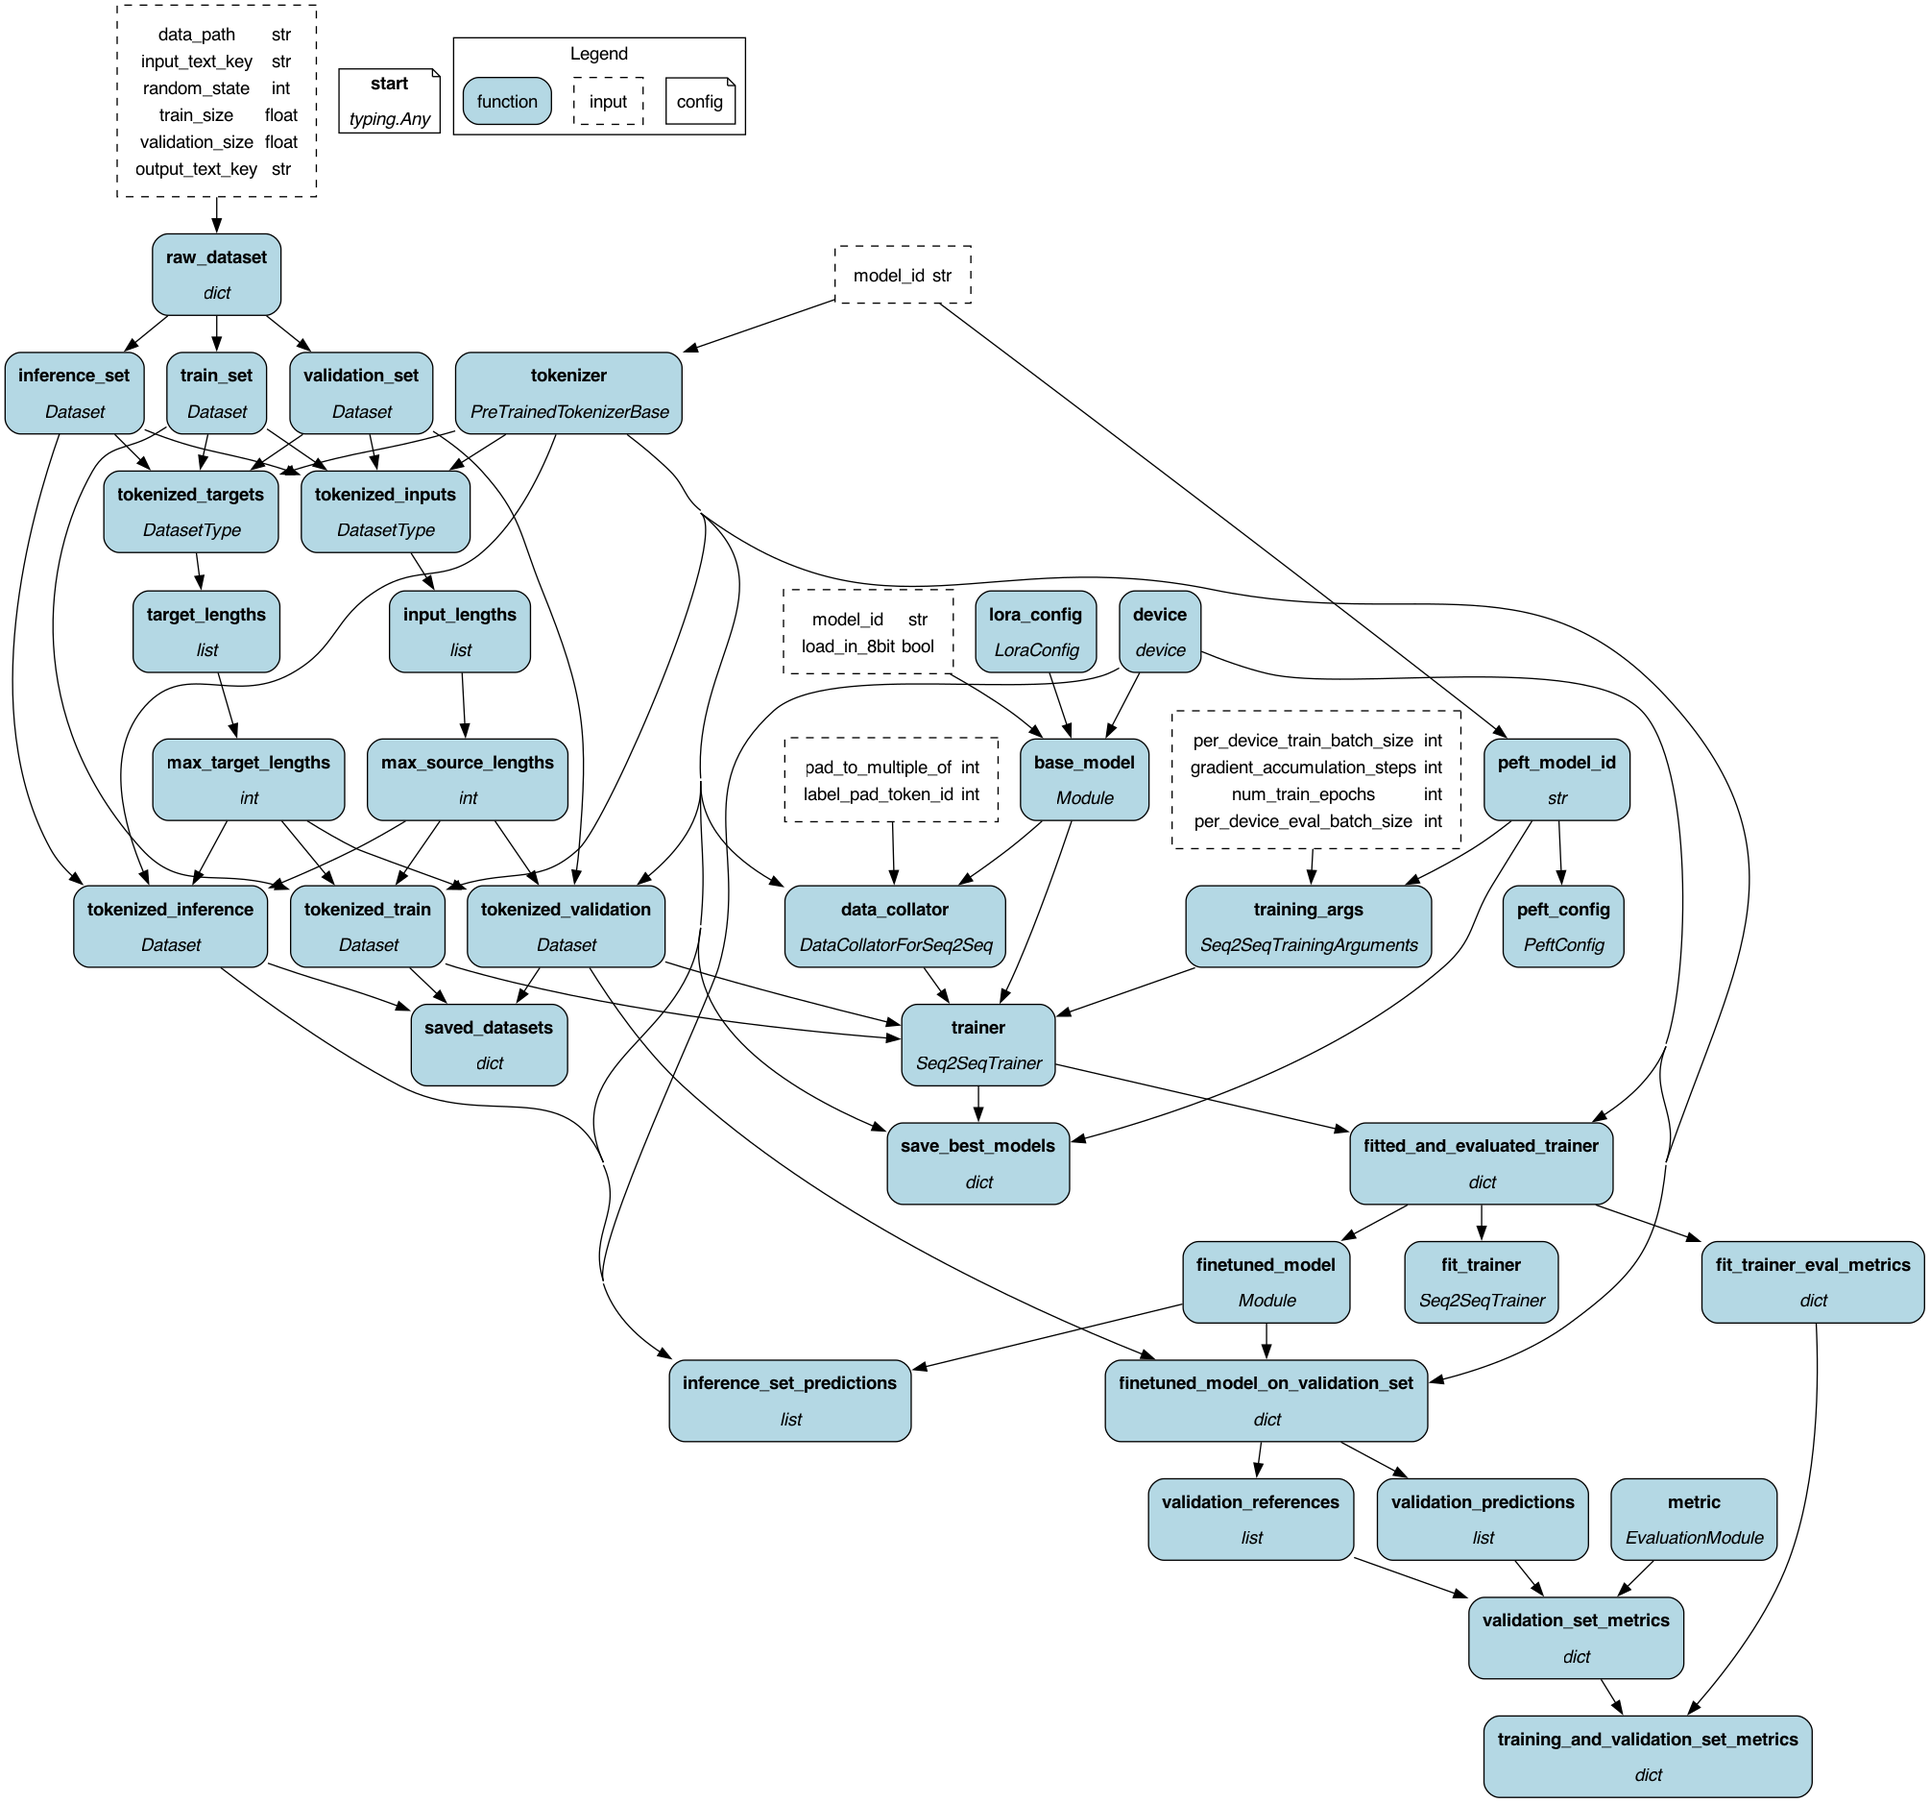
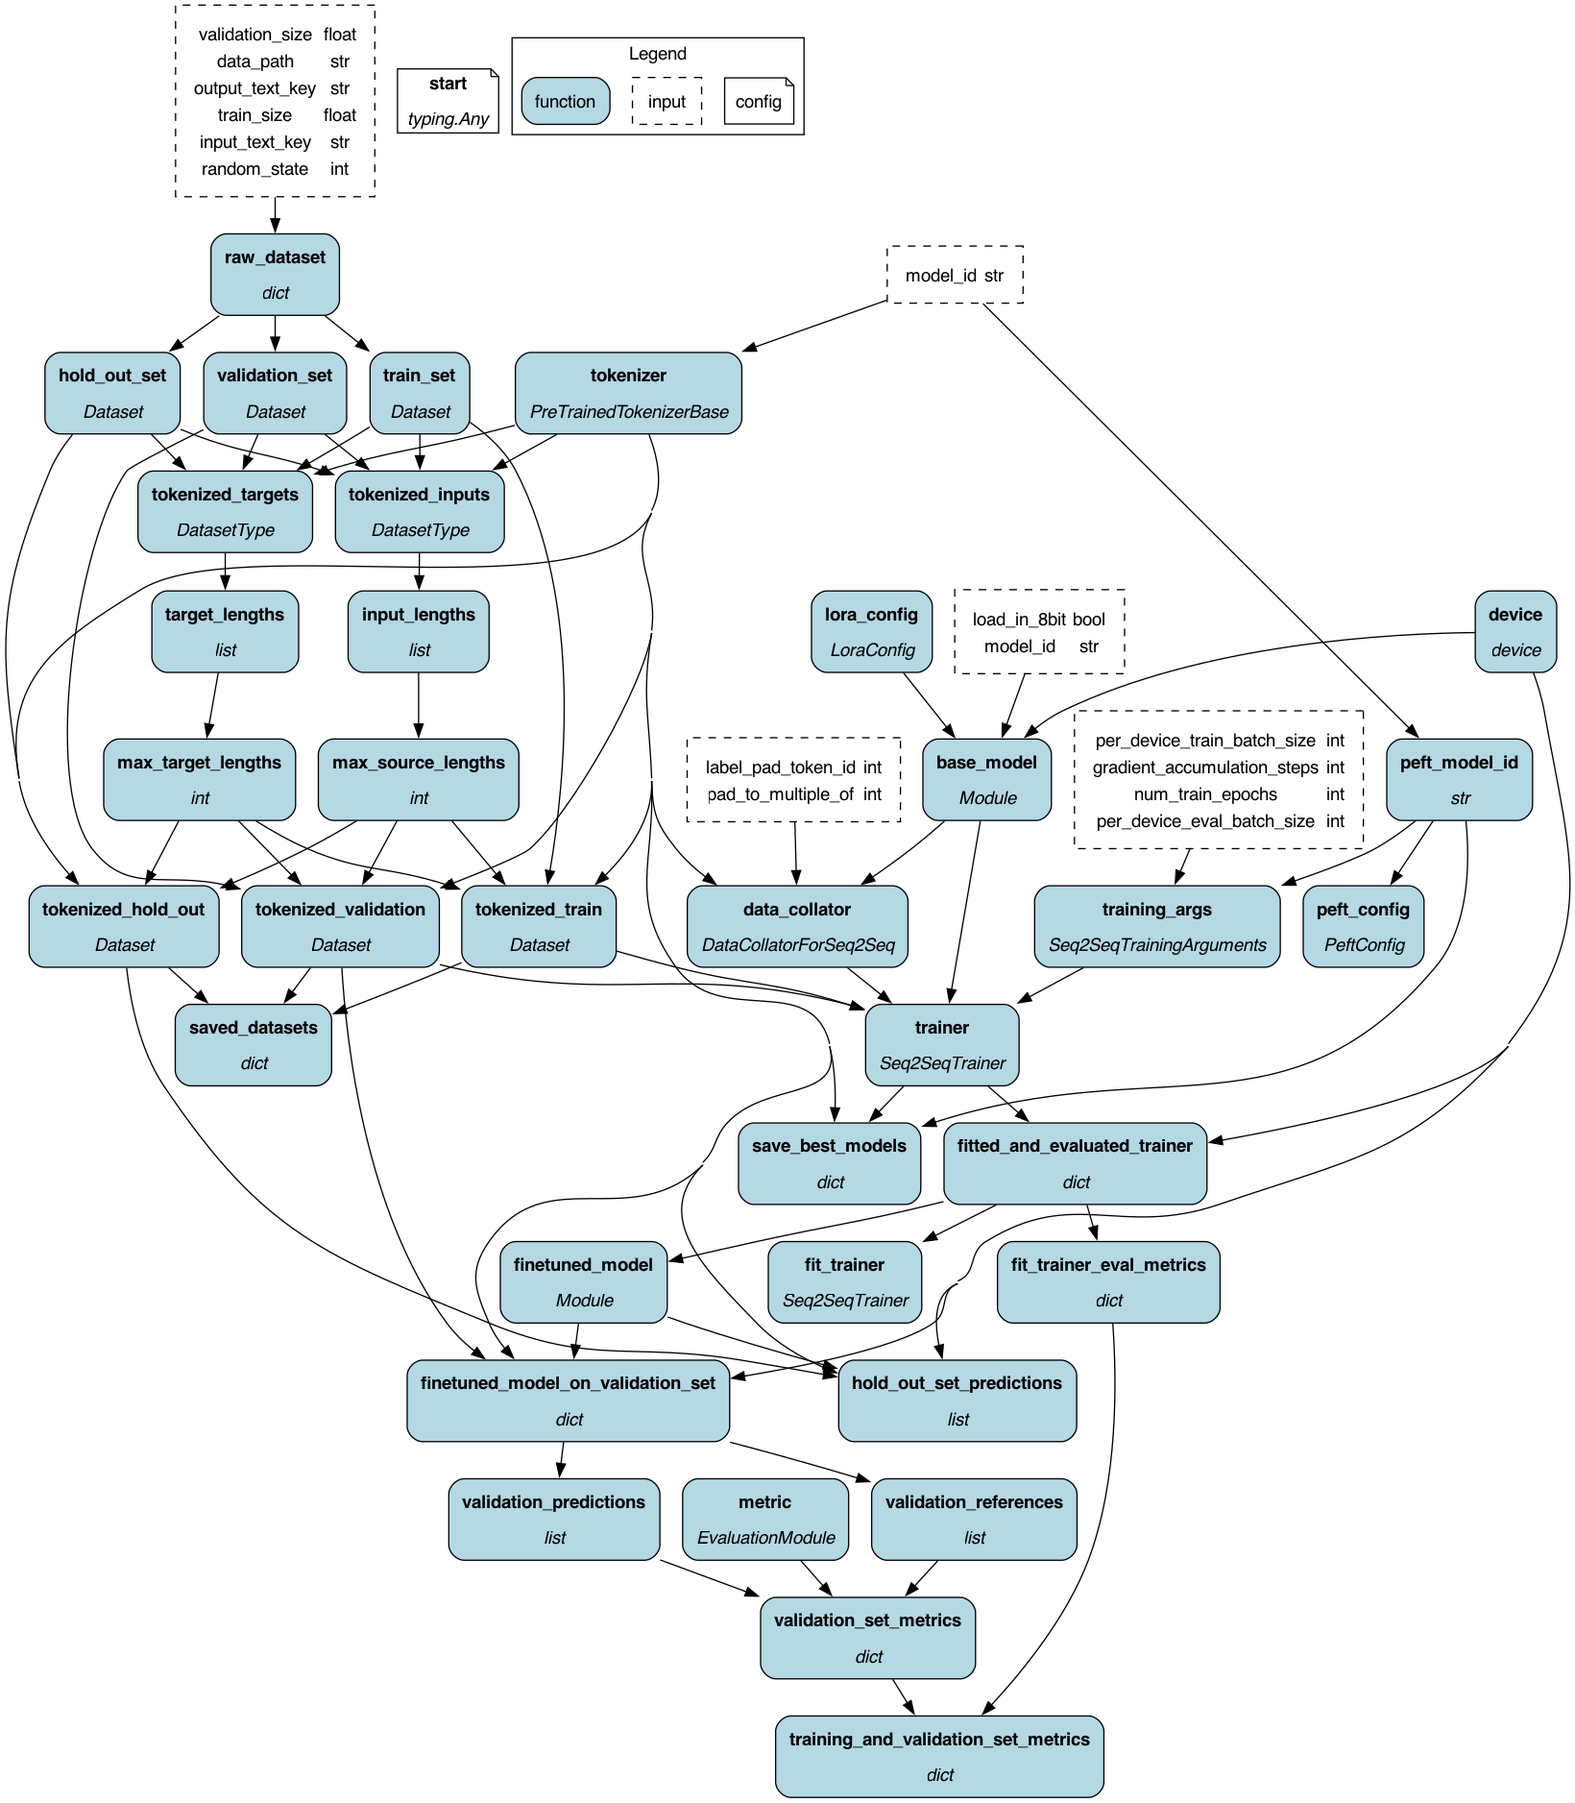
Updates to PR from feedback.

diff --git a/contrib/hamilton/contrib/user/skrawcz/fine_tuning/__init__.py b/contrib/hamilton/contrib/user/skrawcz/fine_tuning/__init__.py
@@ -37,7 +37,7 @@ from hamilton.function_modifiers import extract_fields
 from hamilton.function_modifiers.configuration import config
 
 
-@extract_fields({"train_set": Dataset, "validation_set": Dataset, "inference_set": Dataset})
+@extract_fields({"train_set": Dataset, "validation_set": Dataset, "hold_out_set": Dataset})
 def raw_dataset(
     data_path: str,
     random_state: int = 42,
@@ -78,7 +78,7 @@ def raw_dataset(
     return {
         "train_set": dataset_train,
         "validation_set": dataset_validation,
-        "inference_set": dataset_inference,
+        "hold_out_set": dataset_inference,
     }
 
 
@@ -87,7 +87,7 @@ def tokenizer(
 ) -> PreTrainedTokenizerBase:
     """The tokenizer we're going to use to tokenize text.
 
-    :param model_id:
+    :param model_id: the model id that corresponds to what huggingface knows about.
     :return: the tokenizer to use.
     """
     tokenizer = AutoTokenizer.from_pretrained(model_id)
@@ -97,11 +97,11 @@ def tokenizer(
 def tokenized_inputs(
     train_set: Dataset,
     validation_set: Dataset,
-    inference_set: Dataset,
+    hold_out_set: Dataset,
     tokenizer: PreTrainedTokenizerBase,
 ) -> DatasetType:
-    """Tokenizes"""
-    return concatenate_datasets([train_set, validation_set, inference_set]).map(
+    """Tokenizes the inputs from all the datasets and creates a single data set with them."""
+    return concatenate_datasets([train_set, validation_set, hold_out_set]).map(
         lambda x: tokenizer(x["input_text"], truncation=True),
         batched=True,
         remove_columns=["input_text", "output_text"],
@@ -121,10 +121,11 @@ def max_source_lengths(input_lengths: list[int]) -> int:
 def tokenized_targets(
     train_set: Dataset,
     validation_set: Dataset,
-    inference_set: Dataset,
+    hold_out_set: Dataset,
     tokenizer: PreTrainedTokenizerBase,
 ) -> DatasetType:
-    return concatenate_datasets([train_set, validation_set, inference_set]).map(
+    """Tokenizes the outputs, i.e. target responses, from all the datasets and creates a single data set with them."""
+    return concatenate_datasets([train_set, validation_set, hold_out_set]).map(
         lambda x: tokenizer(x["output_text"], truncation=True),
         batched=True,
         remove_columns=["input_text", "output_text"],
@@ -215,14 +216,14 @@ def tokenized_validation(
     )
 
 
-def tokenized_inference(
-    inference_set: Dataset,
+def tokenized_hold_out(
+    hold_out_set: Dataset,
     max_source_lengths: int,
     max_target_lengths: int,
     tokenizer: PreTrainedTokenizerBase,
 ) -> Dataset:
     """Tokenizes the inference set."""
-    return inference_set.map(
+    return hold_out_set.map(
         partial(
             _preprocess_function,
             max_source_lengths=max_source_lengths,
@@ -237,15 +238,16 @@ def tokenized_inference(
 def saved_datasets(
     tokenized_train: Dataset,
     tokenized_validation: Dataset,
-    tokenized_inference: Dataset,
+    tokenized_hold_out: Dataset,
 ) -> dict:
+    """Function to save tokenized datasets using the datasets library."""
     tokenized_train.save_to_disk("data/train")
     tokenized_validation.save_to_disk("data/validation")
-    tokenized_inference.save_to_disk("data/inference")
+    tokenized_hold_out.save_to_disk("data/inference")
     return {
         "tokenized_train": "data/train",
         "tokenized_validation": "data/validation",
-        "tokenized_inference": "data/inference",
+        "tokenized_hold_out": "data/inference",
     }
 
 
@@ -338,14 +340,18 @@ def training_args(
     gradient_accumulation_steps: int = 1,
     num_train_epochs: int = 2,
 ) -> Seq2SeqTrainingArguments:
-    """The arguments to use for fine-tuning.
+    """Constructs the arguments to use for fine-tuning.
 
-    :param peft_model_id:
-    :param per_device_eval_batch_size:
-    :param per_device_train_batch_size:
-    :param gradient_accumulation_steps:
-    :param num_train_epochs:
-    :return: Seq2SeqTrainingArguments
+    :param peft_model_id: The ID we're running everything under here.
+    :param per_device_eval_batch_size: The batch size for evaluation. This is the number of samples that will be fed to
+        the model at once during evaluation.
+    :param per_device_train_batch_size: The batch size for training. This is the number of samples that will be fed to
+        the model at once during training.
+    :param gradient_accumulation_steps: The number of steps to accumulate gradients before performing an optimization
+        step. This can be useful when training on multiple GPUs to effectively increase the batch size.
+    :param num_train_epochs: The number of epochs to train the model. An epoch is one pass through the entire training
+        dataset.
+    :return: Seq2SeqTrainingArguments object, the arguments for training such as batch size, learning rate, etc.
     """
     training_args = Seq2SeqTrainingArguments(
         do_train=True,
@@ -374,14 +380,16 @@ def trainer(
     tokenized_train: Dataset,
     tokenized_validation: Dataset,
 ) -> Seq2SeqTrainer:
-    """The trainer we'll use for fine-tuning.
+    """Constructs a Seq2SeqTrainer for fine-tuning.
 
-    :param base_model:
-    :param training_args:
-    :param data_collator:
-    :param tokenized_train:
-    :param tokenized_test:
-    :return: Seq2SeqTrainer
+    :param base_model: torch.nn.Module object, the base model to be fine-tuned.
+    :param training_args: Seq2SeqTrainingArguments object, the arguments for training such as batch size, learning rate,
+        etc.
+    :param data_collator: DataCollatorForSeq2Seq object, the data collator that will be used to form batches for
+        training.
+    :param tokenized_train: Dataset object, the training set that has been tokenized.
+    :param tokenized_validation: Dataset object, the validation set that has been tokenized.
+    :return: Seq2SeqTrainer object, the trainer that will be used for fine-tuning.
     """
     trainer = Seq2SeqTrainer(
         model=base_model,
@@ -407,7 +415,7 @@ def fitted_and_evaluated_trainer(trainer: Seq2SeqTrainer, device: torch.device) 
 
     :param trainer: the trainer to use.
     :param device: device to place the device on to.
-    :return:
+    :return: dictionary with the trainer, the evaluation metrics, and the fine-tuned model.
     """
     trainer.train()
     eval_metrics = trainer.evaluate()
@@ -472,12 +480,15 @@ def metric() -> evaluate.EvaluationModule:
 def _evaluate_peft_model(sample, model, tokenizer, device, max_target_length=512) -> tuple:
     """Helper function to evaluate the model on a sample.
 
-    :param sample:
-    :param model:
-    :param tokenizer:
-    :param device:
-    :param max_target_length:
-    :return: the prediction, and the ground truth label.
+    :param sample: The sample on which the model is to be evaluated. This is typically a single instance from the
+        dataset.
+    :param model: The model to be used for evaluation. This is typically the fine-tuned model.
+    :param tokenizer: The tokenizer that was used during the preprocessing of the data.
+        This will be used to decode the model's predictions from token ids back to text.
+    :param device: The device where the computations will be performed. This is typically a CPU or a specific GPU.
+    :param max_target_length: The maximum length of the target sequence. If the predicted sequence is longer than this,
+        it will be truncated to this length.
+    :return: A tuple containing the prediction and the ground truth label.
     """
     # generate summary
     # outputs = model.generate(
@@ -508,14 +519,29 @@ def finetuned_model_on_validation_set(
     tokenizer: PreTrainedTokenizerBase,
     device: torch.device,
 ) -> dict[str, list]:
-    """Evaluates our fine-tuned model on the validation set.
+    """
+    Evaluates the fine-tuned model on the validation set.
 
-    If you run this on a large model this can take a while.
-    :param tokenized_validation:
-    :param finetuned_model:
-    :param tokenizer:
-    :param device:
-    :return:
+    This function iterates over the validation set and generates predictions for each sample.
+    The predictions and the ground truth labels are then returned as a dictionary.
+
+    Note: If you run this on a large model this can take a while.
+
+    :param tokenized_validation: Dataset object, the validation set that has been tokenized.
+        This is the data that the model has seen during training and will be used for testing the model's performance.
+
+    :param finetuned_model: torch.nn.Module object, the fine-tuned model that will be used to generate predictions
+        on the validation set. This model has been trained on the training set.
+
+    :param tokenizer: PreTrainedTokenizerBase object, the tokenizer that was used during the preprocessing
+        of the data. This will be used to decode the model's predictions from token ids back to text.
+
+    :param device: torch.device object, the device where the computations will be performed.
+        This is typically a CPU or a specific GPU.
+
+    :return: Dictionary containing two lists - 'validation_predictions' and 'validation_references'.
+        'validation_predictions' is a list of model predictions for each sample in the validation set.
+        'validation_references' is a list of ground truth labels for each sample in the validation set.
     """
     predictions, references = [], []
     with torch.inference_mode():
@@ -540,6 +566,14 @@ def validation_set_metrics(
     validation_references: list,
     metric: evaluate.EvaluationModule,
 ) -> dict:
+    """Computes the Rouge metric on the validation set.
+
+    :param validation_predictions: List of model predictions for each sample in the validation set.
+    :param validation_references: List of ground truth labels for each sample in the validation set.
+    :param metric: EvaluationModule object, the metric used to evaluate the model's performance.
+        In this case, it's Rouge.
+    :return: Dictionary containing the Rouge scores for the model's performance on the validation set.
+    """
     rogue = metric.compute(
         predictions=validation_predictions,
         references=validation_references,
@@ -561,24 +595,29 @@ def training_and_validation_set_metrics(
     return {**fit_trainer_eval_metrics, **validation_set_metrics}
 
 
-def inference_set_predictions(
-    tokenized_inference: Dataset,
+def hold_out_set_predictions(
+    tokenized_hold_out: Dataset,
     finetuned_model: torch.nn.Module,
     tokenizer: PreTrainedTokenizerBase,
     device: torch.device,
 ) -> list[tuple[str, str]]:
     """Runs model on the inference set.
 
-    :param tokenized_inference:
-    :param finetuned_model:
-    :param tokenizer:
-    :param device:
+    :param tokenized_hold_out: Dataset object, the hold-out set that has been tokenized.This is the data that the
+    model has not seen during training or validation and will be used for testing the model's performance.
+    :param finetuned_model: torch.nn.Module object, the fine-tuned model that will be used to generate predictions
+    on the hold-out set.
+    This model has been trained on the training set and validated on the validation set.
+    :param tokenizer: PreTrainedTokenizerBase object, the tokenizer that was used during the preprocessing
+    of the data. This will be used to decode the model's predictions from token ids back to text.
+    :param device: torch.device object, the device where the computations will be performed.
+    This is typically a CPU or a specific GPU.
     :return: generate responses for the inference set
     """
     predictions = []
     questions = []
     with torch.inference_mode():
-        for sample in tokenized_inference.with_format("torch", device=device):
+        for sample in tokenized_hold_out.with_format("torch", device=device):
             max_target_length = 512
             outputs = finetuned_model.generate(
                 input_ids=sample["input_ids"].unsqueeze(0).cpu(),
@@ -636,7 +675,7 @@ if __name__ == "__main__":
     result = dr.execute(
         [
             "save_best_models",
-            "inference_set_predictions",
+            "hold_out_set_predictions",
             "training_and_validation_set_metrics",
             "finetuned_model_on_validation_set",
         ],

diff --git a/contrib/hamilton/contrib/user/skrawcz/fine_tuning/README.md b/contrib/hamilton/contrib/user/skrawcz/fine_tuning/README.md
@@ -1,14 +1,16 @@
 # Purpose of this module
 This module shows you how to fine-tune an LLM model. This code is inspired by this [fine-tuning code](https://github.com/dagster-io/dagster_llm_finetune/tree/main).
 
-Specifically the code here, from an approach standpoint, shows Supervised Fine-Tuning (SFT) for dialogue. This approach instructs the model to be more
+Specifically the code here, shows Supervised Fine-Tuning (SFT) for dialogue. This approach instructs the model to be more
 useful to directly respond to a question, rather than optimizing over an entire dialogue. SFT is the most common type of fine-tuning,
-as the other two options: Pre-training for Completion, and RLHF, required more to work. Pre-training requires more computational power,
+as the other two options, Pre-training for Completion, and RLHF, required more to work. Pre-training requires more computational power,
 while RLHF requires higher-quality dialogue data.
 
 This code should work on a regular CPU (in a docker container), which will allow you to test out the code locally without
 any additional setup. This specific approach this code uses is [LoRA](https://arxiv.org/abs/2106.09685) (low-rank adaptation of large language models), which
 means that only a subset of the LLM's parameters are tweaked and prevents over-fitting.
+
+Note: if you have issues running this on MacOS, reach out, we might be able to help.
 
 ## What is fine-tuning?
 Fine-tuning is when a pre-trained model, in this context a foundational model, is customized using additional data to
@@ -28,7 +30,7 @@ It shows a basic process of:
 
 a. Loading data and tokenizing it and setting up some tokenization parameters.
 
-b. Splitting data into training, validation, and inference sets.
+b. Splitting data into training, validation, and hold out sets.
 
 c. Fine-tuning the model using LoRA.
 
@@ -63,14 +65,12 @@ You would then pass in as _inputs_ to execution `"data_path"=PATH_TO_THIS_FILE` 
 that the transformers library supports for `AutoModelForSeq2SeqLM` models.
 - Run the code.
 
-Because there's no configuration that changes the shape of the DAG, you can run the code like this:
-
 ```python
 # instantiate the driver with this module however you want
 result = dr.execute(
     [ # some suggested outputs
         "save_best_models",
-        "inference_set_predictions",
+        "hold_out_set_predictions",
         "training_and_validation_set_metrics",
         "finetuned_model_on_validation_set",
     ],
@@ -122,7 +122,7 @@ docker run YOUR_IMAGE_NAME
  - `{"start":  "presaved"}` Use this if you want to load an already fine-tuned model and then just eval it.
 
 # Limitations
-The code here cannot guarantee groundbreaking performance for your specific use case,
+The code here will likely not solve all your LLM troubles,
 but it can show you how to fine-tune an LLM using parameter-efficient techniques such as LoRA.
 
 This code is currently set up to work with dataset and transformer libraries. It could be modified to work with other libraries.
